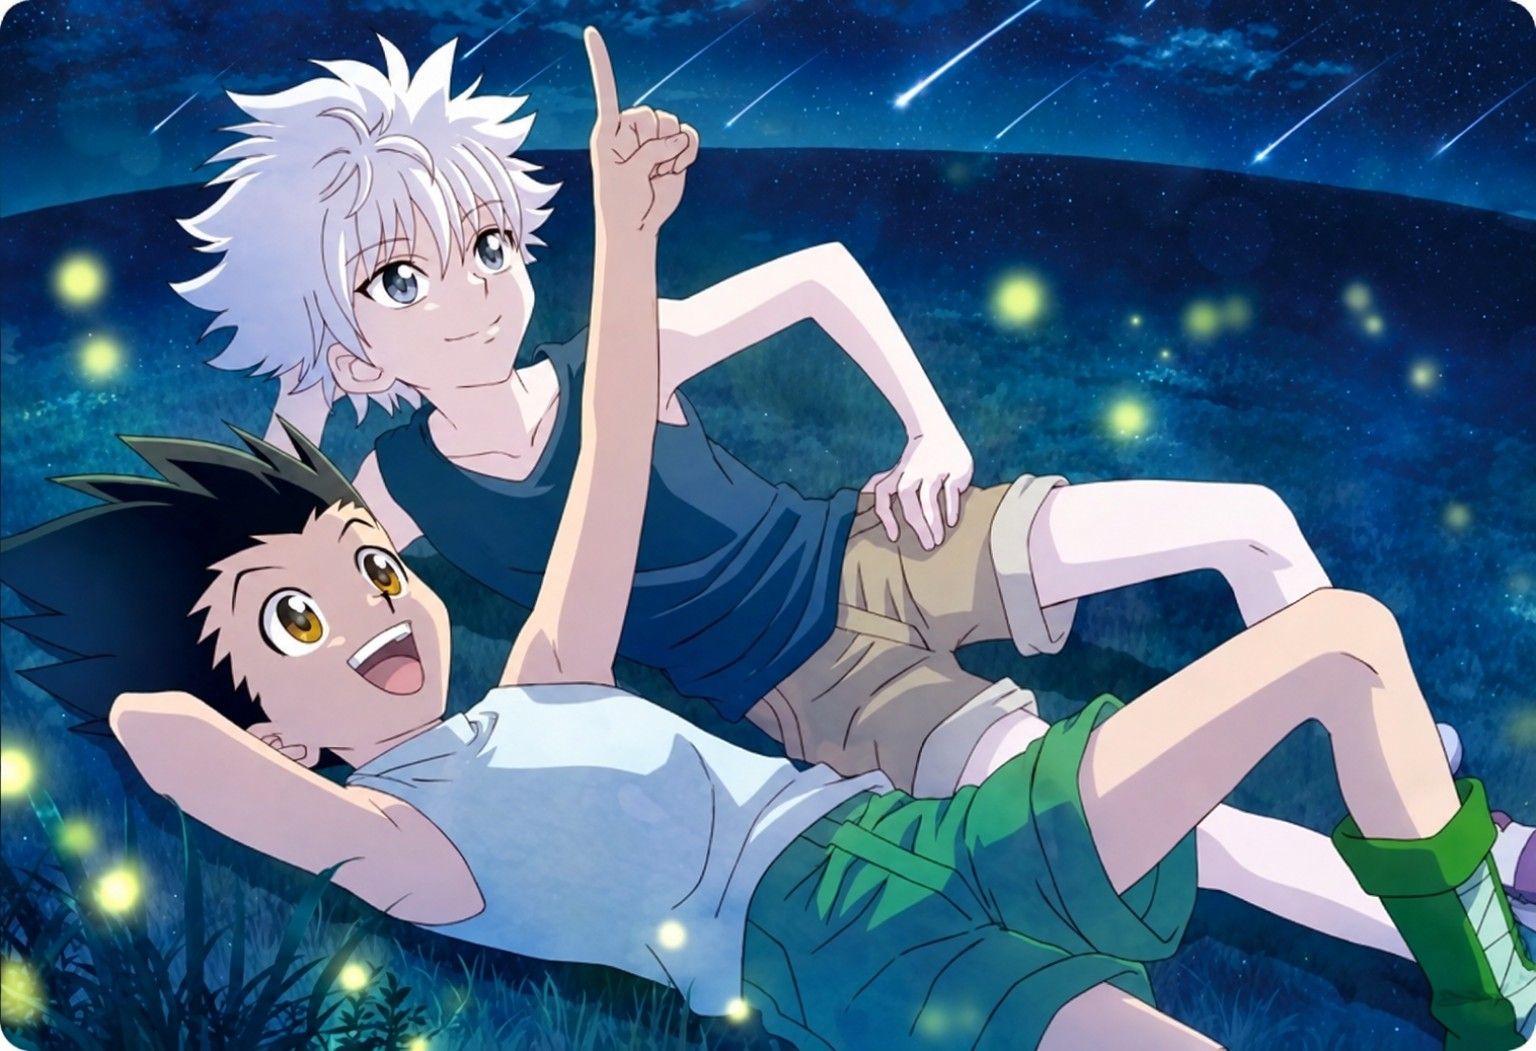
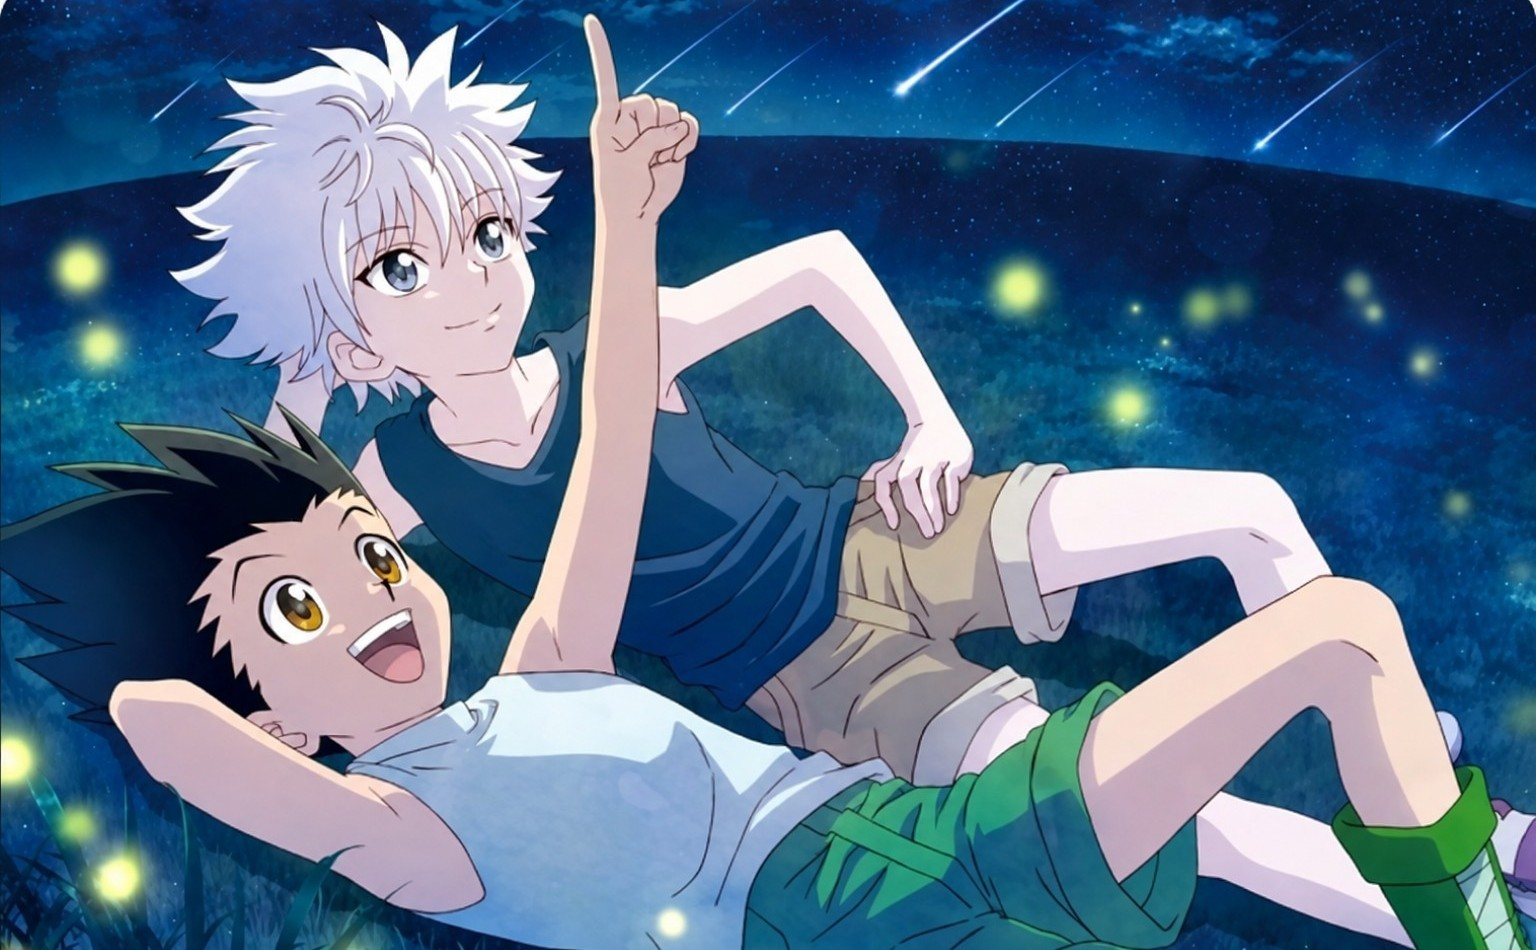
Add files via upload

diff --git a/index.html b/index.html
@@ -5,11 +5,11 @@
 <meta name="theme-color" content="#e8f3ff"><meta name="description" content="いまこの瞬間をもっと大切にするためのふたりだけの場所🫧">
 <title>最強のふたり</title>
 <style>
-:root{--blue:#7fb3ff;--ink:#2e445e;--pink:#f7c6c9;--lav:#cbb4e6;--gold:#e7c07a;--white:#fffdfc}*{box-sizing:border-box}html{scroll-behavior:smooth}body{margin:0;min-height:100vh;color:var(--ink);font-family:system-ui,-apple-system,"Hiragino Kaku Gothic ProN","Noto Sans JP",sans-serif;background:radial-gradient(circle at 85% 8%,#f7c6c9aa,transparent 33%),radial-gradient(circle at 8% 36%,#b7d8e7bb,transparent 37%),linear-gradient(150deg,#e8f3ff,#f3e2d6 68%,#fff9ed)}body:before{content:"";position:fixed;inset:0;pointer-events:none;background-image:radial-gradient(#fff 1px,transparent 1px);background-size:24px 24px;opacity:.5}.wrap{position:relative;max-width:740px;margin:auto;padding:32px 18px 82px}.eyebrow{font-size:11px;letter-spacing:.33em;text-align:center;color:#667e9d}.hero{text-align:center;padding:38px 10px 25px}.hero h1{font-family:Georgia,"Yu Mincho",serif;font-weight:500;letter-spacing:.13em;font-size:clamp(34px,9vw,54px);margin:15px 0 10px}.hero p{font-size:14px;line-height:1.9}.hero-carousel{display:flex;width:min(100%,520px);aspect-ratio:3/2;margin:18px auto 10px;overflow-x:auto;overflow-y:hidden;scroll-snap-type:x mandatory;scrollbar-width:none;border-radius:24px;background:linear-gradient(130deg,#dbeaff,#f8e5ee);box-shadow:0 14px 35px #2e445e35;border:2px solid #ffffffbd}.hero-carousel::-webkit-scrollbar{display:none}.hero-trigger{display:block;flex:0 0 100%;height:100%;scroll-snap-align:start;margin:0;padding:0;border:0;background:transparent}.hero-image{display:block;width:100%;height:100%;object-fit:contain}.hero-trigger:focus-visible{outline:3px solid var(--blue);outline-offset:-5px}.hero-dots{display:flex;justify-content:center;gap:9px;margin:0 0 18px}.hero-dots button{width:10px;height:10px;padding:0;border-radius:50%;background:#9aaec6;opacity:.55}.hero-dots button[aria-current="true"]{width:22px;border-radius:9px;background:var(--ink);opacity:1}.hero-dots button:focus-visible{outline:2px solid var(--blue);outline-offset:4px}.emoji-drop{position:fixed;top:-55px;z-index:100;pointer-events:none;user-select:none;font-size:clamp(23px,5vw,36px);animation:emoji-rain var(--fall-time,2.5s) linear forwards}@keyframes emoji-rain{0%{transform:translateY(0) rotate(0deg);opacity:0}10%{opacity:1}85%{opacity:1}100%{transform:translateY(115vh) rotate(280deg);opacity:0}}@media(prefers-reduced-motion:reduce){.emoji-drop{top:18vh;animation:none;opacity:1}}@keyframes float{50%{transform:translateY(-8px)}}.grid{display:grid;grid-template-columns:repeat(2,1fr);gap:12px}.card{background:#ffffffc9;border:1px solid #fff;box-shadow:0 12px 35px #526a8a16;backdrop-filter:blur(15px);border-radius:25px;padding:23px;margin:12px 0}.counter{margin:0;text-align:center;padding:24px 12px}.counter .label{font-size:12px;letter-spacing:.08em}.counter strong{display:block;font-size:clamp(35px,8vw,54px);font-family:Georgia,serif;font-weight:500;margin:8px 0 2px}.counter strong small{font:15px system-ui}.counter time{font-size:12px;color:#647b95}.counter:first-child{background:linear-gradient(150deg,#e8f3ffdd,#ffffffdd)}.counter:last-child{background:linear-gradient(150deg,#fff1ecdd,#ffffffdd)}h2{font-family:Georgia,"Yu Mincho",serif;font-weight:500;font-size:21px;margin:0 0 8px}p{line-height:1.7}.hint{color:#627890;font-size:12px;margin:4px 0 16px}button{font:inherit;cursor:pointer;border:0}.primary{border-radius:99px;padding:13px 25px;color:#253953;background:linear-gradient(110deg,var(--blue),var(--lav),var(--pink));font-weight:700;box-shadow:0 7px 18px #7fb3ff55}.primary:active,.chip:active,.memory:active{transform:scale(.97)}.primary:disabled{opacity:.58;cursor:default;box-shadow:none}.fortune{text-align:center;min-height:76px;margin:15px 0 0}.fortune b{color:#845d8c}.fortune p{margin:5px 0}.memories{display:flex;justify-content:center;gap:12px;flex-wrap:wrap;margin:15px 0}.memory{width:53px;height:53px;border-radius:18px;background:#f8f9ff;border:1px solid #dfe9fa;font-size:25px;box-shadow:0 5px 12px #6d8aab1b}.secret{min-height:48px;text-align:center;padding:12px;background:#f6f5ff;border-radius:15px;font-size:13px;line-height:1.6}.secret:empty{display:none}.pen-story[hidden]{display:none}.pen-story{padding:15px 0 3px;text-align:center}.pen-story h3{font-family:Georgia,"Yu Mincho",serif;font-size:18px;font-weight:500;margin:0 0 8px}.pen-story p{font-size:14px;margin:0 0 14px}.pen-photos{display:grid;grid-template-columns:repeat(2,minmax(0,1fr));gap:10px}.pen-photos img{display:block;width:100%;height:auto;aspect-ratio:3/4;object-fit:cover;border-radius:15px;border:2px solid #fff;box-shadow:0 5px 16px #526a8a26}@media(max-width:480px){.pen-photos{grid-template-columns:1fr}.pen-photos img{max-width:370px;margin:auto}}.who{display:flex;gap:8px}.chip{border:1px solid #d8e0ec;background:#fff;border-radius:99px;padding:9px 15px;color:var(--ink)}.chip.selected{background:var(--ink);color:#fff}.moods{display:flex;gap:8px;flex-wrap:wrap;margin:13px 0}.moods .chip{padding:10px 12px}.mood-custom{margin:17px 0}.mood-custom label{display:block;font-size:13px;margin-bottom:8px}.mood-custom>div{display:flex;gap:8px}.mood-custom input{min-width:0;flex:1;border:1px solid #d8e0ec;border-radius:12px;padding:10px;font:inherit;font-size:14px}.mood-custom button{flex:none}.status strong{overflow-wrap:anywhere}.status{display:grid;grid-template-columns:1fr 1fr;gap:10px;margin-top:15px}.status>div{background:#f6f8ff;border-radius:17px;padding:14px;min-height:88px}.status span{font-size:11px;color:#637a94}.status strong{display:block;margin-top:8px;font-size:15px}.songs{display:grid;grid-template-columns:repeat(2,minmax(0,1fr));gap:10px}.song{min-width:0;border-radius:17px;background:#f6f8ff;padding:14px}.song>span{font-size:12px;color:#637a94}.song strong{display:block;margin:9px 0 4px;overflow-wrap:anywhere}.song .note{font-size:13px;margin:0 0 8px;overflow-wrap:anywhere}.song a{display:inline-block;margin-top:4px;font-weight:700}.song-form{display:grid;gap:11px;margin-top:20px}.song-form label{display:grid;gap:5px;font-size:13px}.song-form input{width:100%;min-width:0;border:1px solid #d8e0ec;border-radius:11px;padding:11px;font:inherit;font-size:14px}.song-form .primary{justify-self:start}@media(max-width:480px){.songs{gap:7px}.song{padding:11px}}.foot{text-align:center;font-size:12px;color:#657990;padding:27px 0}.settings{font-size:12px}.settings summary{cursor:pointer}.settings input{width:100%;font:inherit;padding:11px;border-radius:10px;border:1px solid #b8c6db;margin:9px 0}.settings button{padding:9px 14px;border-radius:10px;background:#e8f3ff;color:var(--ink)}.notice{font-size:12px;color:#8d4754}a{color:#345b91}@media(max-width:390px){.wrap{padding:20px 12px}.grid{gap:8px}.card{padding:18px}.counter{padding:18px 7px}.memory{width:49px;height:49px}}
+:root{--blue:#7fb3ff;--ink:#2e445e;--pink:#f7c6c9;--lav:#cbb4e6;--gold:#e7c07a;--white:#fffdfc}*{box-sizing:border-box}html{scroll-behavior:smooth}body{margin:0;min-height:100vh;color:var(--ink);font-family:system-ui,-apple-system,"Hiragino Kaku Gothic ProN","Noto Sans JP",sans-serif;background:radial-gradient(circle at 85% 8%,#f7c6c9aa,transparent 33%),radial-gradient(circle at 8% 36%,#b7d8e7bb,transparent 37%),linear-gradient(150deg,#e8f3ff,#f3e2d6 68%,#fff9ed)}body:before{content:"";position:fixed;inset:0;pointer-events:none;background-image:radial-gradient(#fff 1px,transparent 1px);background-size:24px 24px;opacity:.5}.wrap{position:relative;max-width:740px;margin:auto;padding:32px 18px 82px}.eyebrow{font-size:11px;letter-spacing:.33em;text-align:center;color:#667e9d}.hero{text-align:center;padding:38px 10px 25px}.hero h1{font-family:Georgia,"Yu Mincho",serif;font-weight:500;letter-spacing:.13em;font-size:clamp(34px,9vw,54px);margin:15px 0 10px}.hero p{font-size:14px;line-height:1.9}.hero-carousel{display:flex;width:min(100%,520px);aspect-ratio:8/5;margin:18px auto 10px;overflow-x:auto;overflow-y:hidden;scroll-snap-type:x mandatory;scrollbar-width:none;border-radius:24px;background:linear-gradient(130deg,#dbeaff,#f8e5ee);box-shadow:0 14px 35px #2e445e35;border:2px solid #ffffffbd}.hero-carousel::-webkit-scrollbar{display:none}.hero-trigger{display:block;flex:0 0 100%;height:100%;scroll-snap-align:start;margin:0;padding:0;border:0;background:transparent}.hero-image{display:block;width:100%;height:100%;object-fit:cover;object-position:center}.hero-trigger:focus-visible{outline:3px solid var(--blue);outline-offset:-5px}.hero-dots{display:flex;justify-content:center;gap:9px;margin:0 0 18px}.hero-dots button{width:10px;height:10px;padding:0;border-radius:50%;background:#9aaec6;opacity:.55}.hero-dots button[aria-current="true"]{width:22px;border-radius:9px;background:var(--ink);opacity:1}.hero-dots button:focus-visible{outline:2px solid var(--blue);outline-offset:4px}.emoji-drop{position:fixed;top:-55px;z-index:100;pointer-events:none;user-select:none;font-size:clamp(23px,5vw,36px);animation:emoji-rain var(--fall-time,2.5s) linear forwards}@keyframes emoji-rain{0%{transform:translateY(0) rotate(0deg);opacity:0}10%{opacity:1}85%{opacity:1}100%{transform:translateY(115vh) rotate(280deg);opacity:0}}@media(prefers-reduced-motion:reduce){.emoji-drop{top:18vh;animation:none;opacity:1}}@keyframes float{50%{transform:translateY(-8px)}}.grid{display:grid;grid-template-columns:repeat(2,1fr);gap:12px}.card{background:#ffffffc9;border:1px solid #fff;box-shadow:0 12px 35px #526a8a16;backdrop-filter:blur(15px);border-radius:25px;padding:23px;margin:12px 0}.counter{margin:0;text-align:center;padding:24px 12px}.counter .label{font-size:12px;letter-spacing:.08em}.counter strong{display:block;font-size:clamp(35px,8vw,54px);font-family:Georgia,serif;font-weight:500;margin:8px 0 2px}.counter strong small{font:15px system-ui}.counter time{font-size:12px;color:#647b95}.counter:first-child{background:linear-gradient(150deg,#e8f3ffdd,#ffffffdd)}.counter:last-child{background:linear-gradient(150deg,#fff1ecdd,#ffffffdd)}h2{font-family:Georgia,"Yu Mincho",serif;font-weight:500;font-size:21px;margin:0 0 8px}p{line-height:1.7}.hint{color:#627890;font-size:12px;margin:4px 0 16px}button{font:inherit;cursor:pointer;border:0}.primary{border-radius:99px;padding:13px 25px;color:#253953;background:linear-gradient(110deg,var(--blue),var(--lav),var(--pink));font-weight:700;box-shadow:0 7px 18px #7fb3ff55}.primary:active,.chip:active,.memory:active{transform:scale(.97)}.primary:disabled{opacity:.58;cursor:default;box-shadow:none}.fortune{text-align:center;min-height:76px;margin:15px 0 0}.fortune b{color:#845d8c}.fortune p{margin:5px 0}.memories{display:flex;justify-content:center;gap:12px;flex-wrap:wrap;margin:15px 0}.memory{width:53px;height:53px;border-radius:18px;background:#f8f9ff;border:1px solid #dfe9fa;font-size:25px;box-shadow:0 5px 12px #6d8aab1b}.secret{min-height:48px;text-align:center;padding:12px;background:#f6f5ff;border-radius:15px;font-size:13px;line-height:1.6}.secret:empty{display:none}.pen-story[hidden]{display:none}.pen-story{padding:15px 0 3px;text-align:center}.pen-story h3{font-family:Georgia,"Yu Mincho",serif;font-size:18px;font-weight:500;margin:0 0 8px}.pen-story p{font-size:14px;margin:0 0 14px}.pen-photos{display:grid;grid-template-columns:repeat(2,minmax(0,1fr));gap:10px}.pen-photos img{display:block;width:100%;height:auto;aspect-ratio:3/4;object-fit:cover;border-radius:15px;border:2px solid #fff;box-shadow:0 5px 16px #526a8a26}@media(max-width:480px){.pen-photos{grid-template-columns:1fr}.pen-photos img{max-width:370px;margin:auto}}.who{display:flex;gap:8px}.chip{border:1px solid #d8e0ec;background:#fff;border-radius:99px;padding:9px 15px;color:var(--ink)}.chip.selected{background:var(--ink);color:#fff}.moods{display:flex;gap:8px;flex-wrap:wrap;margin:13px 0}.moods .chip{padding:10px 12px}.mood-custom{margin:17px 0}.mood-custom label{display:block;font-size:13px;margin-bottom:8px}.mood-custom>div{display:flex;gap:8px}.mood-custom input{min-width:0;flex:1;border:1px solid #d8e0ec;border-radius:12px;padding:10px;font:inherit;font-size:14px}.mood-custom button{flex:none}.status strong{overflow-wrap:anywhere}.status{display:grid;grid-template-columns:1fr 1fr;gap:10px;margin-top:15px}.status>div{background:#f6f8ff;border-radius:17px;padding:14px;min-height:88px}.status span{font-size:11px;color:#637a94}.status strong{display:block;margin-top:8px;font-size:15px}.songs{display:grid;grid-template-columns:repeat(2,minmax(0,1fr));gap:10px}.song{min-width:0;border-radius:17px;background:#f6f8ff;padding:14px}.song>span{font-size:12px;color:#637a94}.song strong{display:block;margin:9px 0 4px;overflow-wrap:anywhere}.song .note{font-size:13px;margin:0 0 8px;overflow-wrap:anywhere}.song a{display:inline-block;margin-top:4px;font-weight:700}.song-form{display:grid;gap:11px;margin-top:20px}.song-form label{display:grid;gap:5px;font-size:13px}.song-form input{width:100%;min-width:0;border:1px solid #d8e0ec;border-radius:11px;padding:11px;font:inherit;font-size:14px}.song-form .primary{justify-self:start}@media(max-width:480px){.songs{gap:7px}.song{padding:11px}}.foot{text-align:center;font-size:12px;color:#657990;padding:27px 0}.settings{font-size:12px}.settings summary{cursor:pointer}.settings input{width:100%;font:inherit;padding:11px;border-radius:10px;border:1px solid #b8c6db;margin:9px 0}.settings button{padding:9px 14px;border-radius:10px;background:#e8f3ff;color:var(--ink)}.notice{font-size:12px;color:#8d4754}a{color:#345b91}@media(max-width:390px){.wrap{padding:20px 12px}.grid{gap:8px}.card{padding:18px}.counter{padding:18px 7px}.memory{width:49px;height:49px}}
 </style>
 </head>
 <body><main class="wrap">
-<header class="hero"><div class="eyebrow">SINCE 2026.08.23</div><h1>最強のふたり</h1><div class="hero-carousel" id="heroCarousel" role="region" aria-label="ふたりの写真。左右にスワイプして切り替え"><button class="hero-trigger" type="button" aria-label="1枚目の写真。タップで絵文字のシャワー"><img class="hero-image" src="./futari.jpg" alt="夜空の下で笑い合うゴンとキルア" width="1536" height="804"></button><button class="hero-trigger" type="button" aria-label="2枚目の写真。タップで絵文字のシャワー"><img class="hero-image" src="./hero-color.jpg" alt="流れ星を見上げるゴンとキルアのカラー画像" width="1536" height="1051" loading="lazy"></button><button class="hero-trigger" type="button" aria-label="3枚目の写真。タップで絵文字のシャワー"><img class="hero-image" src="./hero-monochrome.jpg" alt="ゴンとキルアの白黒画像" width="1536" height="833" loading="lazy"></button></div><div class="hero-dots" id="heroDots" role="group" aria-label="写真を選ぶ"><button type="button" aria-label="1枚目の写真を見る" aria-current="true"></button><button type="button" aria-label="2枚目の写真を見る" aria-current="false"></button><button type="button" aria-label="3枚目の写真を見る" aria-current="false"></button></div><p>いまこの瞬間をもっと大切にするための<br>ふたりだけの場所🫧</p></header>
+<header class="hero"><div class="eyebrow">SINCE 2026.08.23</div><h1>最強のふたり</h1><div class="hero-carousel" id="heroCarousel" role="region" aria-label="ふたりの写真。左右にスワイプして切り替え"><button class="hero-trigger" type="button" aria-label="1枚目の写真。タップで絵文字のシャワー"><img class="hero-image" src="./futari.jpg" alt="夜空の下で笑い合うゴンとキルア" width="1536" height="804"></button><button class="hero-trigger" type="button" aria-label="2枚目の写真。タップで絵文字のシャワー"><img class="hero-image" src="./hero-color.jpg" alt="流れ星を見上げるゴンとキルアのカラー画像" width="1536" height="950" loading="lazy"></button><button class="hero-trigger" type="button" aria-label="3枚目の写真。タップで絵文字のシャワー"><img class="hero-image" src="./hero-monochrome.jpg" alt="ゴンとキルアの白黒画像" width="1536" height="833" loading="lazy"></button></div><div class="hero-dots" id="heroDots" role="group" aria-label="写真を選ぶ"><button type="button" aria-label="1枚目の写真を見る" aria-current="true"></button><button type="button" aria-label="2枚目の写真を見る" aria-current="false"></button><button type="button" aria-label="3枚目の写真を見る" aria-current="false"></button></div><p>いまこの瞬間をもっと大切にするための<br>ふたりだけの場所🫧</p></header>
 <section class="grid" aria-label="ふたりの記念日"><div class="card counter"><div class="label">出会ってから</div><strong><span id="metDays">—</span><small> 日目</small></strong><time datetime="2026-08-23">2026.08.23</time></div><div class="card counter"><div class="label">付き合ってから</div><strong><span id="loveDays">—</span><small> 日目</small></strong><time datetime="2026-09-09">2026.09.09</time></div></section>
 <section class="card"><h2>今日のふたりのおみくじ 🎲</h2><p class="hint">ドキドキの運試し💥1人1日1回だよ！</p><div class="who" role="group" aria-label="おみくじを引く人"><button class="chip" id="fortune-person-a" type="button">ゴン🐶</button><button class="chip" id="fortune-person-b" type="button">キルア🐱</button></div><p class="hint">自分を選んでね！</p><button class="primary" id="draw" type="button">おみくじを引く ✨</button><p class="hint" id="fortuneHelp" aria-live="polite"></p><div class="status"><div><span>ゴンのおみくじ🐶</span><strong id="fortune-a">まだ引いてないよ</strong></div><div><span>キルアのおみくじ🐱</span><strong id="fortune-b">まだ引いてないよ</strong></div></div></section>
 
